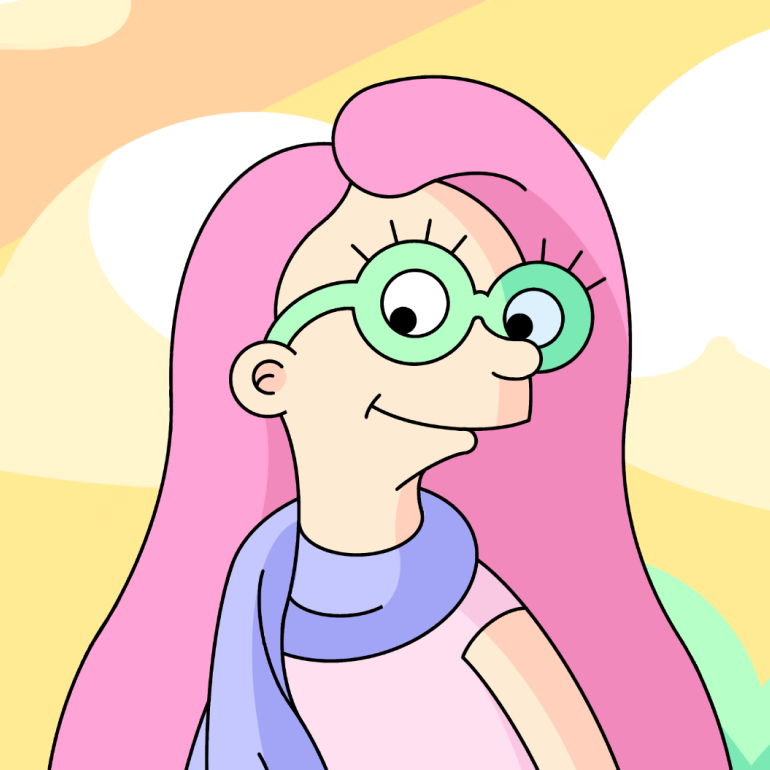
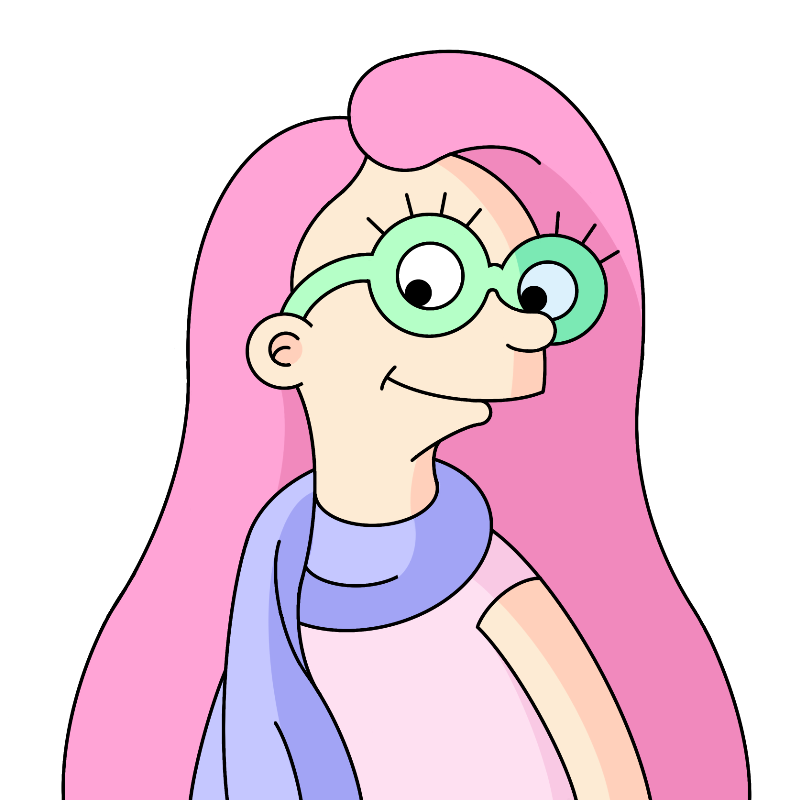
user images refresh

diff --git a/app/(about)/[slug]/page.tsx b/app/(about)/[slug]/page.tsx
@@ -32,7 +32,7 @@ export default async function Page(props: {
       <AnimateLayout className="container">
         <header className="text-center relative rounded-xl pt-4">
           <Image
-            className="inline-block mb-2 rounded-full"
+            className="inline-block mb-2"
             src={user.avatar}
             width={80}
             height={80}
@@ -42,13 +42,13 @@ export default async function Page(props: {
           <Link href={`mailto:${user.email}`} className="ylink text-base">
             {user.email}
           </Link>
-          <blockquote className="absolute hidden md:block top-0 text-base right-0 italic text-left max-w-xs">
+          {/* <blockquote className="absolute hidden md:block top-0 text-base right-0 italic text-left max-w-xs">
             {user.tagline} Feel free to{" "}
             <Link href={user.email} className="ylink ">
               drop me a line
             </Link>
             !
-          </blockquote>
+          </blockquote> */}
         </header>
         <div className="flex py-2 md:py-4 gap-2 items-center justify-center w-fit m-auto top-0 sticky z-20 mb-10">
           {user.resume ? (

diff --git a/app/(index)/about/page.tsx b/app/(index)/about/page.tsx
@@ -21,7 +21,7 @@ export default function About() {
                 src={i.avatar}
                 width={176}
                 height={176}
-                className=" size-16 md:size-44 group-hover/item:scale-[1.01] rounded-full duration-200 transition-transform transform-gpu"
+                className=" size-16 md:size-44 group-hover/item:scale-[1.01]  duration-200 transition-transform transform-gpu"
                 alt={i.name}
               />
               <figcaption className="transition grow py-0.5 md:text-center text-yask">
